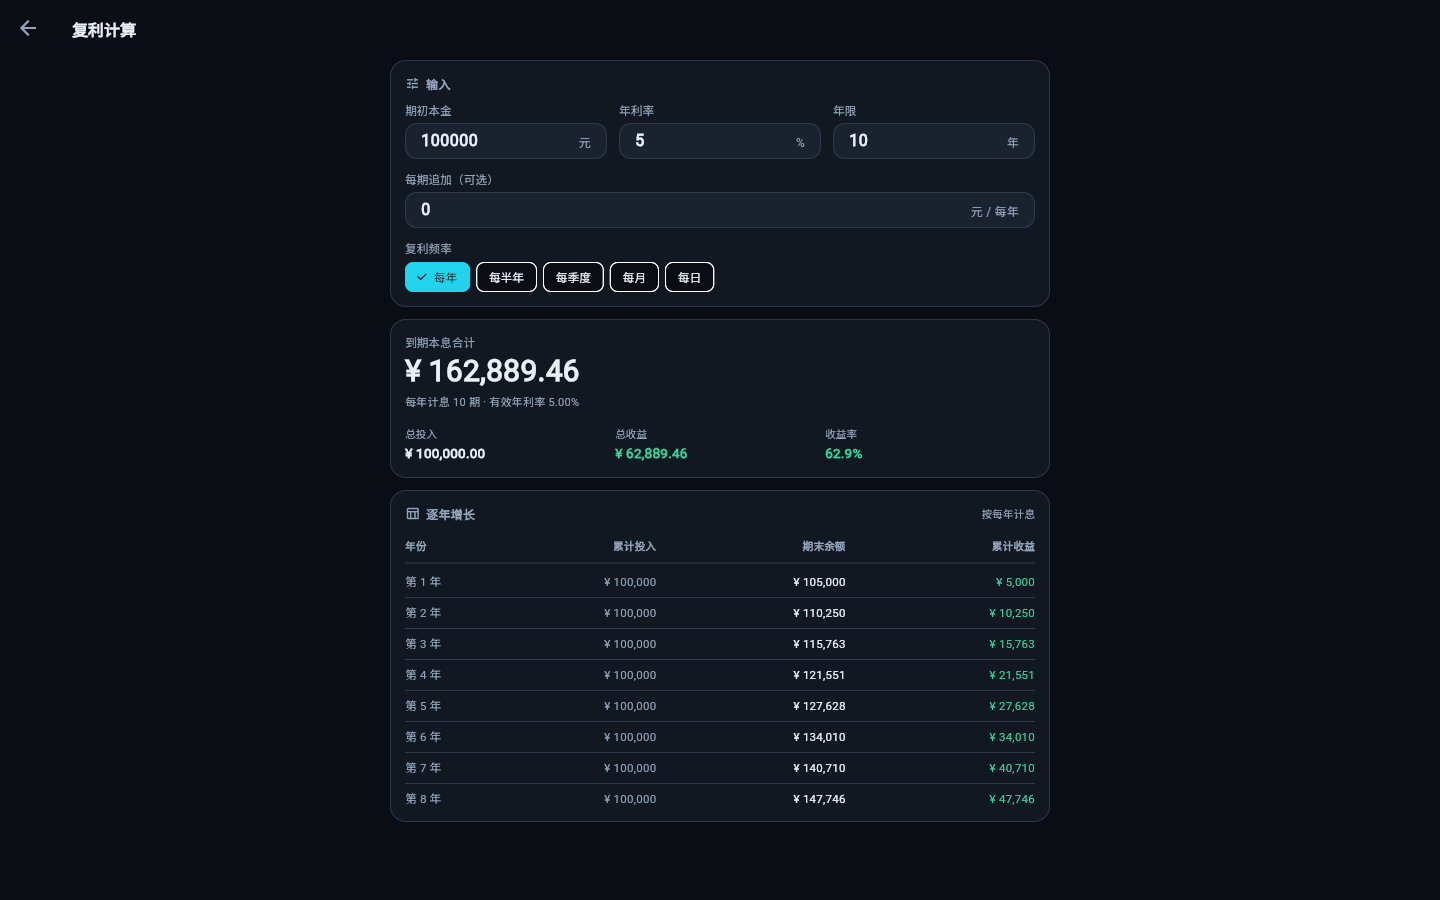
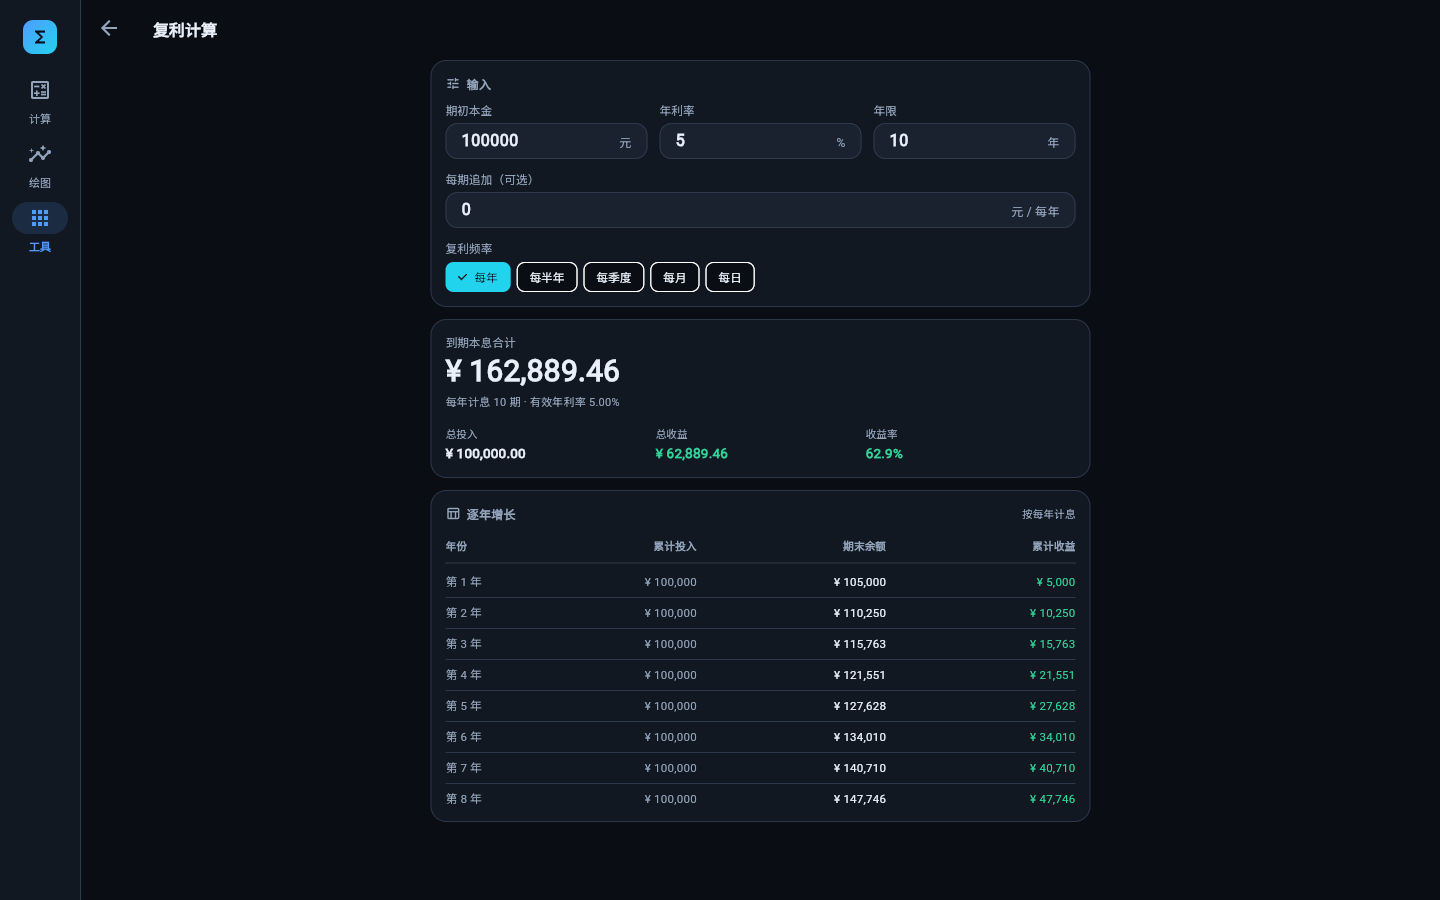
工具页内打开工具时保留外层导航菜单
原来点开工具是往根 Navigator push，整页覆盖，侧边栏 / 底部菜单都消失。
改成「工具」tab 内嵌一个 Navigator（lib/ui/tools/tools_tab.dart）：
- 工具列表与具体工具都在 tab 内路由，NavigationRail / NavigationBar 始终可见
- 工具页 AppBar 的返回箭头由内嵌 Navigator 自动提供，系统返回键经
  NavigatorPopHandler 转发给内嵌 Navigator（只在工具 tab 激活时生效）
- 切到计算 / 绘图再切回工具，打开的工具仍在（IndexedStack 保活）
- 深链 ?tool=bmi 改由内嵌 Navigator 的 onGenerateInitialRoutes 打开，
  app.dart 去掉之前为绕开 home 与 onGenerateInitialRoutes 冲突而写的双分支
  MaterialApp；只带 ?tool= 时也默认停在工具 tab
- BMI 身高单位（ft ▾）与体重单位（lb）对齐：ToolNumberField 的 trailing
  在 suffixIcon 槽位里居中，单位菜单改用 PopupMenuButton + 文本行，
  两者中心线一致（widget 测试断言 dy 相差 < 1px）
- 测试：新增「工具页：打开工具后可与其它 tab 来回切换」，在进入工具、深链、
  手机尺寸用例里断言导航菜单仍在；共 107 项
- 重新生成 bmi.png / compound.png（现在能看到左侧导航栏），README 同步

diff --git a/test/widget_test.dart b/test/widget_test.dart
@@ -8,6 +8,7 @@ import 'package:free_clac/services/saved_plot_file.dart';
 import 'package:free_clac/state/plot_controller.dart';
 import 'package:free_clac/ui/widgets/plot_export_dialog.dart';
 import 'package:free_clac/ui/tools/bmi/bmi_page.dart';
+import 'package:free_clac/ui/tools/compound/compound_page.dart';
 import 'package:free_clac/ui/widgets/calc_display.dart';
 import 'package:free_clac/ui/widgets/keypad.dart';
 import 'package:free_clac/plot/plot_painter.dart';
@@ -144,6 +145,10 @@ void main() {
     await tester.tap(find.text('BMI 计算'));
     await tester.pumpAndSettle();
 
+    // 工具在「工具」tab 内打开，外层导航菜单保留
+    expect(find.byType(NavigationRail), findsOneWidget);
+    expect(find.byType(BmiPage), findsOneWidget);
+
     // 默认 170 cm / 65 kg → BMI 22.5，属于正常
     expect(find.text('22.5'), findsOneWidget);
     expect(find.text('正常'), findsWidgets);
@@ -179,13 +184,18 @@ void main() {
     expect(find.byType(TextField), findsNWidgets(2));
     expect(find.text('5.58'), findsOneWidget);
     expect(find.textContaining('身高 5.58 ft'), findsOneWidget);
+    // 身高单位（ft ▾）与体重单位（lb）上下齐平
+    expect(
+      tester.getCenter(find.text('ft')).dy,
+      closeTo(tester.getCenter(find.text('lb')).dy, 1),
+    );
     expect(find.textContaining('143.3 lb'), findsWidgets);
     expect(find.text('22.5'), findsOneWidget);
 
     // 身高单位 ft → in：仍是同一个输入框，数值换算
     await tester.tap(find.text('ft'));
     await tester.pumpAndSettle();
-    await tester.tap(find.text('in').last);
+    await tester.tap(find.text('in（英寸）'));
     await tester.pumpAndSettle();
     expect(find.text('66.96'), findsOneWidget);
     expect(find.textContaining('身高 66.96 in'), findsOneWidget);
@@ -229,6 +239,29 @@ void main() {
     expect(tester.takeException(), isNull);
   });
 
+  testWidgets('工具页：打开工具后可与其它 tab 来回切换', (tester) async {
+    await pumpApp(tester, const Size(1440, 900));
+
+    await tester.tap(find.text('工具'));
+    await tester.pumpAndSettle();
+    await tester.tap(find.text('复利计算'));
+    await tester.pumpAndSettle();
+
+    // 工具页内仍能看到导航菜单
+    expect(find.byType(NavigationRail), findsOneWidget);
+    expect(find.text('计算'), findsOneWidget);
+    expect(find.text('绘图'), findsOneWidget);
+
+    // 切到计算器再切回工具，工具页面不丢
+    await tester.tap(find.text('计算'));
+    await tester.pumpAndSettle();
+    expect(find.byType(NavigationRail), findsOneWidget);
+    await tester.tap(find.text('工具'));
+    await tester.pumpAndSettle();
+    expect(find.byType(CompoundPage), findsOneWidget);
+    expect(tester.takeException(), isNull);
+  });
+
   testWidgets('工具页：深链 ?tool=bmi 直接打开工具并可返回', (tester) async {
     tester.view.physicalSize = const Size(1440, 900);
     tester.view.devicePixelRatio = 1;
@@ -241,6 +274,8 @@ void main() {
 
     expect(find.byType(BmiPage), findsOneWidget);
     expect(find.text('22.5'), findsOneWidget);
+    // 深链打开工具时导航菜单同样保留
+    expect(find.byType(NavigationRail), findsOneWidget);
 
     await tester.pageBack();
     await tester.pumpAndSettle();
@@ -260,7 +295,10 @@ void main() {
     await tester.pumpAndSettle();
     expect(tester.takeException(), isNull);
 
-    // 手机上英制三列输入也不溢出
+    // 手机上打开工具后底部菜单仍在
+    expect(find.byType(NavigationBar), findsOneWidget);
+
+    // 手机上英制输入也不溢出
     await tester.tap(find.text('英制'));
     await tester.pumpAndSettle();
     expect(find.text('ft'), findsOneWidget);

diff --git a/lib/ui/tools/bmi/bmi_page.dart b/lib/ui/tools/bmi/bmi_page.dart
@@ -154,7 +154,14 @@ class _BmiPageState extends State<BmiPage> {
                             Expanded(
                               child: ToolNumberField(
                                 label: '体重',
-                                suffix: 'lb',
+                                // 与身高单位同一套 suffixIcon 插槽，保证两个单位上下齐平
+                                trailing: const Text(
+                                  'lb',
+                                  style: TextStyle(
+                                    color: AppColors.textSecondary,
+                                    fontSize: 12,
+                                  ),
+                                ),
                                 controller: _weight,
                                 onChanged: (_) => setState(() {}),
                               ),
@@ -209,7 +216,7 @@ class _UnitSwitch extends StatelessWidget {
   }
 }
 
-/// 英制身高的输入单位：ft / in 下拉切换。
+/// 英制身高的输入单位：点开菜单切换 ft / in。
 class _HeightUnitPicker extends StatelessWidget {
   const _HeightUnitPicker({required this.unit, required this.onChanged});
 
@@ -218,32 +225,40 @@ class _HeightUnitPicker extends StatelessWidget {
 
   @override
   Widget build(BuildContext context) {
-    return SizedBox(
-      height: 26,
-      child: DropdownButton<BmiImperialHeightUnit>(
-        value: unit,
-        isDense: true,
-        focusColor: Colors.transparent,
-        underline: const SizedBox.shrink(),
-        iconSize: 16,
-        icon: const Icon(
-          Icons.arrow_drop_down_rounded,
-          size: 16,
-          color: AppColors.textSecondary,
-        ),
-        borderRadius: BorderRadius.circular(10),
-        style: const TextStyle(
-          color: AppColors.textSecondary,
-          fontSize: 12,
-          fontWeight: FontWeight.w600,
-        ),
-        items: [
-          for (final value in BmiImperialHeightUnit.values)
-            DropdownMenuItem(value: value, child: Text(value.symbol)),
+    return PopupMenuButton<BmiImperialHeightUnit>(
+      tooltip: '身高单位',
+      padding: EdgeInsets.zero,
+      position: PopupMenuPosition.under,
+      initialValue: unit,
+      onSelected: onChanged,
+      itemBuilder: (context) => [
+        for (final value in BmiImperialHeightUnit.values)
+          PopupMenuItem(
+            value: value,
+            height: 38,
+            child: Text(
+              '${value.symbol}（${value.label}）',
+              style: const TextStyle(fontSize: 12.5),
+            ),
+          ),
+      ],
+      child: Row(
+        mainAxisSize: MainAxisSize.min,
+        children: [
+          Text(
+            unit.symbol,
+            style: const TextStyle(
+              color: AppColors.textSecondary,
+              fontSize: 12,
+              fontWeight: FontWeight.w600,
+            ),
+          ),
+          const Icon(
+            Icons.arrow_drop_down_rounded,
+            size: 16,
+            color: AppColors.textSecondary,
+          ),
         ],
-        onChanged: (value) {
-          if (value != null) onChanged(value);
-        },
       ),
     );
   }

diff --git a/lib/app.dart b/lib/app.dart
@@ -2,7 +2,6 @@ import 'package:flutter/material.dart';
 
 import 'theme/app_theme.dart';
 import 'ui/home_page.dart';
-import 'ui/tools/tool_catalog.dart';
 
 class FreeCalcApp extends StatelessWidget {
   const FreeCalcApp({
@@ -18,37 +17,21 @@ class FreeCalcApp extends StatelessWidget {
   /// 启动时载入的示例曲线下标（Web 端 ?preset=0）。
   final int? initialPreset;
 
-  /// 启动时直接打开的工具（Web 端 ?tool=bmi）。
+  /// 启动时直接打开的工具 id（Web 端 ?tool=bmi），由工具页内嵌的
+  /// Navigator 打开，外层导航菜单仍然保留。
   final String? initialTool;
 
   @override
   Widget build(BuildContext context) {
-    final home = HomePage(initialTab: initialTab, initialPreset: initialPreset);
-    final tool = initialTool == null ? null : toolById(initialTool!);
-    if (tool == null) {
-      return MaterialApp(
-        title: '科学计算器',
-        debugShowCheckedModeBanner: false,
-        theme: AppTheme.dark(),
-        home: home,
-      );
-    }
-
-    // 深链打开工具：初始路由为 [首页, 工具页]，返回键回到首页。
-    // 用初始路由而不是首帧后再 push，保证截图与首帧就位（`home` 不能与
-    // onGenerateInitialRoutes 同时出现，所以这条分支不传 home）。
     return MaterialApp(
       title: '科学计算器',
       debugShowCheckedModeBanner: false,
       theme: AppTheme.dark(),
-      initialRoute: '/',
-      // 兜底路由：满足 WidgetsApp「至少要有一个路由来源」的断言。
-      onGenerateRoute: (settings) =>
-          MaterialPageRoute<void>(builder: (_) => home),
-      onGenerateInitialRoutes: (route) => [
-        MaterialPageRoute<void>(builder: (_) => home),
-        MaterialPageRoute<void>(builder: tool.builder),
-      ],
+      home: HomePage(
+        initialTab: initialTab,
+        initialPreset: initialPreset,
+        initialTool: initialTool,
+      ),
     );
   }
 }

diff --git a/lib/ui/tools/tools_tab.dart b/lib/ui/tools/tools_tab.dart
@@ -1,0 +1,49 @@
+import 'package:flutter/material.dart';
+
+import '../tools_page.dart';
+import 'tool_catalog.dart';
+
+/// 「工具」tab：用一个内嵌 [Navigator] 承载「工具列表 → 具体工具」的跳转，
+/// 这样打开某个工具后，外层的导航菜单（侧边栏 / 底部栏）仍然保留。
+class ToolsTab extends StatefulWidget {
+  const ToolsTab({super.key, this.initialTool, this.active = true});
+
+  /// 深链参数（Web 端 `?tool=bmi`），启动时直接打开对应工具。
+  final String? initialTool;
+
+  /// 当前是否停留在工具 tab；只有停在工具 tab 时才接管系统返回键，
+  /// 否则隐藏的 tab 会抢走返回事件。
+  final bool active;
+
+  @override
+  State<ToolsTab> createState() => _ToolsTabState();
+}
+
+class _ToolsTabState extends State<ToolsTab> {
+  final GlobalKey<NavigatorState> _navigatorKey = GlobalKey<NavigatorState>();
+
+  late final ToolInfo? _initialTool = widget.initialTool == null
+      ? null
+      : toolById(widget.initialTool!);
+
+  @override
+  Widget build(BuildContext context) {
+    return NavigatorPopHandler<Object?>(
+      enabled: widget.active,
+      onPopWithResult: (_) => _navigatorKey.currentState?.maybePop(),
+      child: Navigator(
+        key: _navigatorKey,
+        onGenerateRoute: (settings) => MaterialPageRoute<void>(
+          settings: settings,
+          builder: (_) => const ToolsPage(),
+        ),
+        // 深链时首帧就是「列表 + 工具」两层路由，返回键回到列表。
+        onGenerateInitialRoutes: (_, _) => [
+          MaterialPageRoute<void>(builder: (_) => const ToolsPage()),
+          if (_initialTool != null)
+            MaterialPageRoute<void>(builder: _initialTool.builder),
+        ],
+      ),
+    );
+  }
+}

diff --git a/lib/ui/home_page.dart b/lib/ui/home_page.dart
@@ -7,17 +7,25 @@ import '../theme/app_theme.dart';
 import '../plot/plot_presets.dart';
 import 'calculator_page.dart';
 import 'plot_page.dart';
-import 'tools_page.dart';
+import 'tools/tools_tab.dart';
 
 /// 应用主框架：计算器 / 绘图 / 工具三个页面，共享同一个计算引擎。
 class HomePage extends StatefulWidget {
-  const HomePage({super.key, this.initialTab = 0, this.initialPreset});
+  const HomePage({
+    super.key,
+    this.initialTab = 0,
+    this.initialPreset,
+    this.initialTool,
+  });
 
   /// 初始页面：0 计算器，1 绘图，2 工具。
   final int initialTab;
 
   /// 启动时载入的示例曲线下标，越界时忽略。
   final int? initialPreset;
+
+  /// 启动时直接打开的工具 id（Web 端 `?tool=bmi`）。
+  final String? initialTool;
 
   @override
   State<HomePage> createState() => _HomePageState();
@@ -60,7 +68,7 @@ class _HomePageState extends State<HomePage> {
           children: [
             CalculatorPage(controller: _calculator),
             PlotPage(controller: _plot),
-            const ToolsPage(),
+            ToolsTab(initialTool: widget.initialTool, active: _index == 2),
           ],
         );
 

diff --git a/lib/ui/tools/widgets/tool_field.dart b/lib/ui/tools/widgets/tool_field.dart
@@ -63,7 +63,9 @@ class ToolNumberField extends StatelessWidget {
                 ? null
                 : Padding(
                     padding: const EdgeInsets.only(right: 8),
-                    child: trailing,
+                    // suffixIcon 槽位是 48 高的紧约束，居中后才能和
+                    // 其它字段的 suffixText 保持同一水平线
+                    child: Center(child: trailing),
                   ),
             suffixStyle: const TextStyle(
               color: AppColors.textSecondary,

diff --git a/lib/main.dart b/lib/main.dart
@@ -12,6 +12,8 @@ void main() {
       initialTab: switch (page) {
         'plot' => 1,
         'tools' => 2,
+        // 只带 ?tool=xxx 时也直接停在工具页
+        _ when query['tool'] != null => 2,
         _ => 0,
       },
       initialPreset: int.tryParse(query['preset'] ?? ''),
